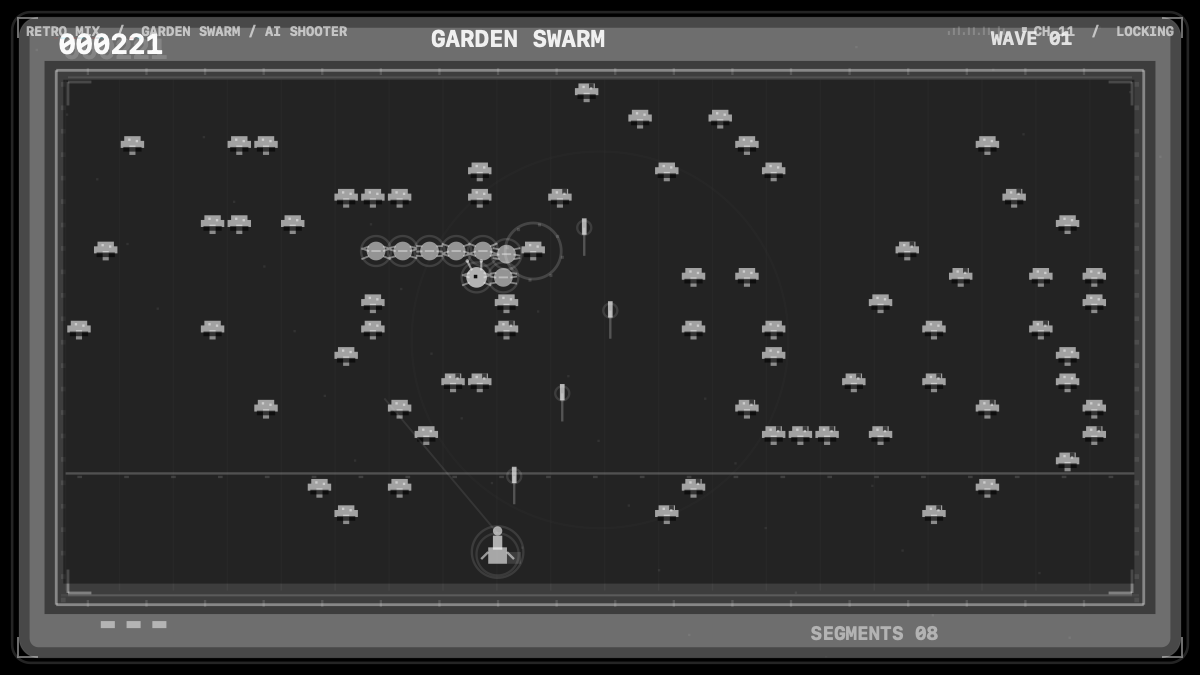
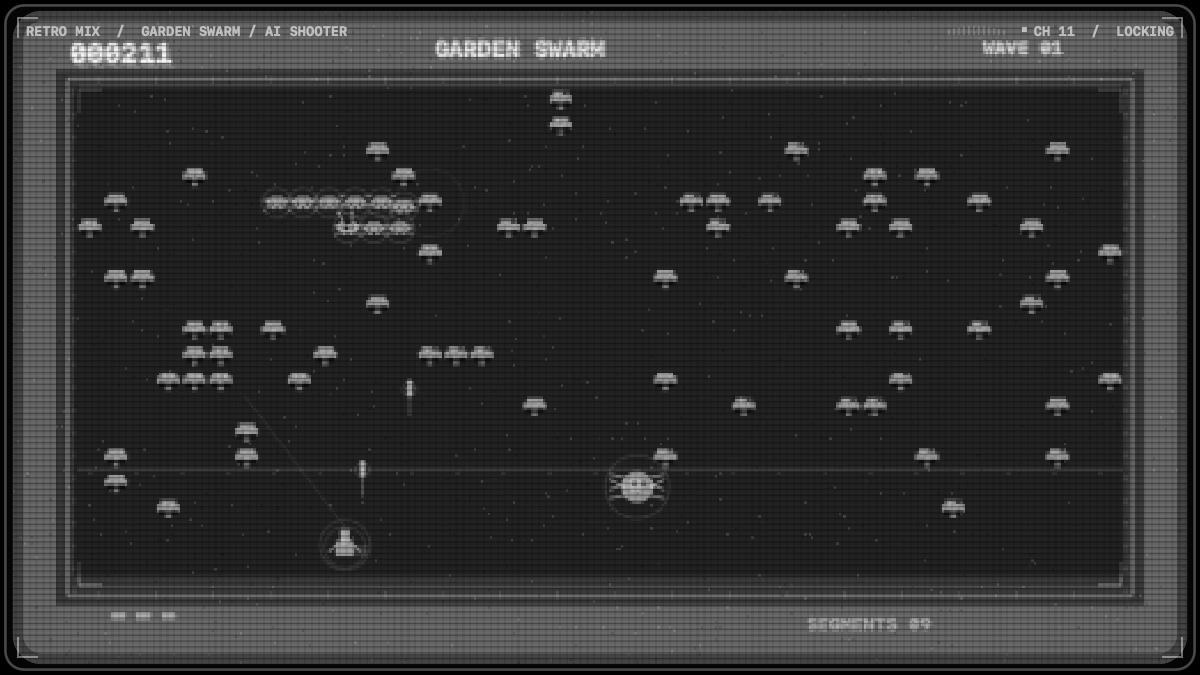
Update graphics for version 1.8.3

diff --git a/RELEASE_NOTES.md b/RELEASE_NOTES.md
@@ -1,21 +1,6 @@
-# Retro Mix Arcade 1.8.2
+# Retro Mix Arcade 1.8.3
 
-**Barrel Climb** has improved barrel physics, AI and animation:
-
-- Each girder now slopes in the direction its barrels roll. Barrels fall to
-  the next girder at the end and rotate with their actual travel.
-- The AI predicts encounters from relative position and speed, finishes jumps
-  before taking ladders, and checks for approaching barrels above.
-- Jumping and climbing have separate animated poses. Barrel speed and launch
-  timing vary from one barrel to the next.
-
-## Installation
-
-1. Expand the macOS ZIP and move `Retro Mix Arcade.app` to Applications,
-   replacing the previous copy.
-2. Open the app once, then choose **Retro Mix Arcade** in **System Settings →
-   Wallpaper → Screen Saver**.
-
-Requires macOS 14 or newer. The app contains Apple Silicon and Intel code.
-Existing JMR unlock codes remain valid. The archive is locally signed for
-development and is not notarized by Apple.
+- Refined Star Squadron with pixel-art fighters and animated enemy wings.
+- Improved River Crossing frog poses and Garden Swarm centipede sprites.
+- Added a barrel-throwing pose to Barrel Climb.
+- Retains the shared monochrome CRT presentation and selectable effects.

diff --git a/README.md b/README.md
@@ -24,7 +24,7 @@ The image shows an already unlocked JMR license.
 
 ## Download and install
 
-Download the ZIP from [version 1.8.2](https://github.com/mikaelmoran/retro-mix-arcade-downloads/releases/tag/v1.8.2), expand it, and move
+Download the ZIP from [version 1.8.3](https://github.com/mikaelmoran/retro-mix-arcade-downloads/releases/tag/v1.8.3), expand it, and move
 **Retro Mix Arcade.app** to Applications. Open the app, choose a game, and
 click **Save selection**. In **System Settings → Wallpaper → Screen Saver**,
 choose **Retro Mix Arcade**.
